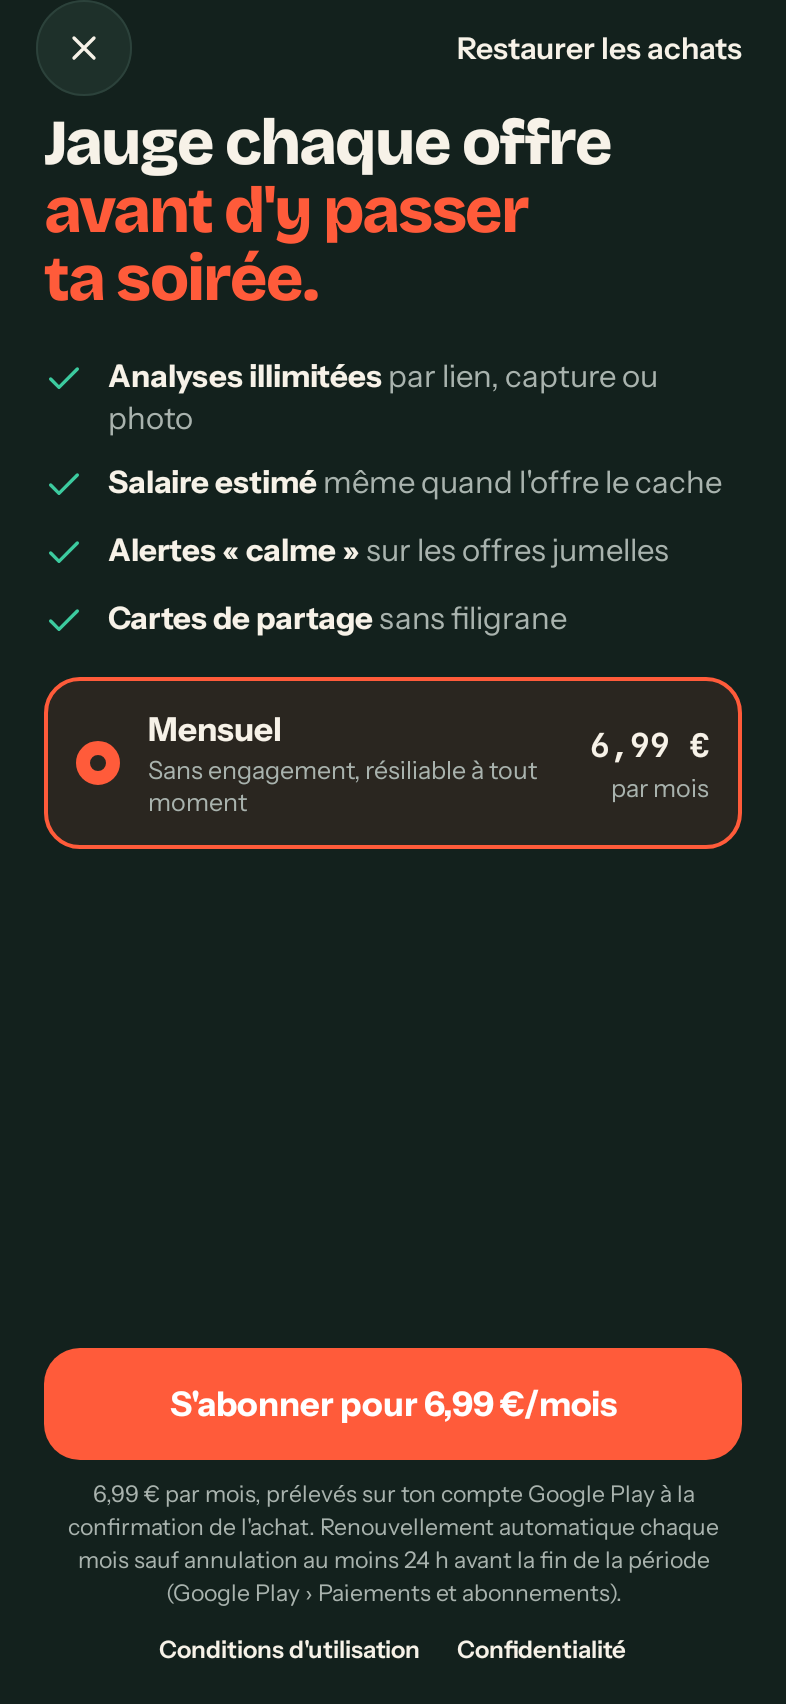
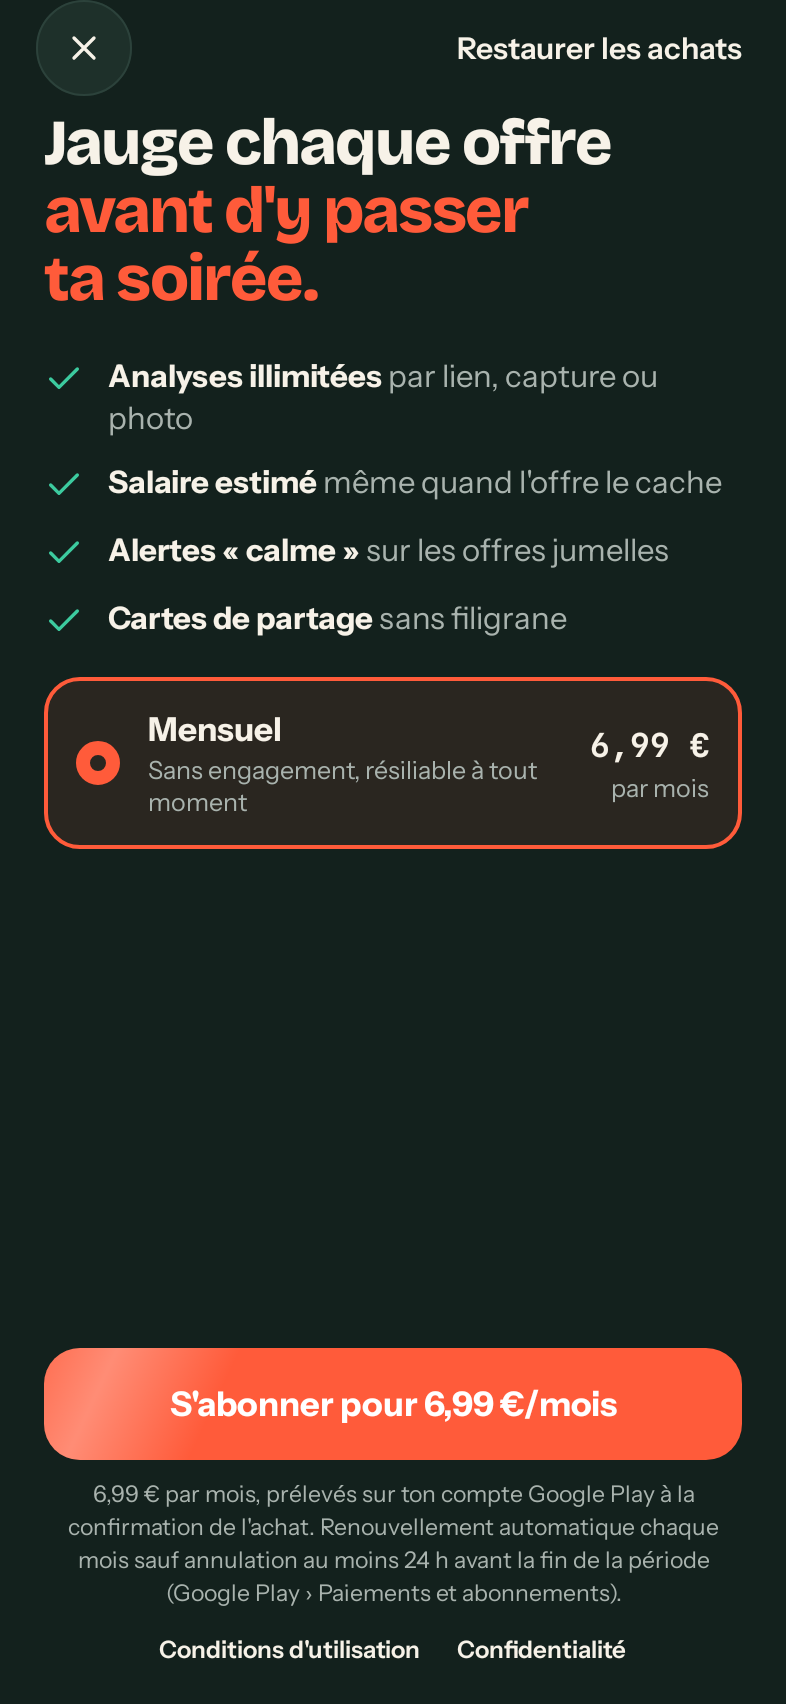
feat: real API configuration for debug and release builds
Release builds always call https://api.jauge.io/. Debug builds call
jauge.api.baseUrl when it is set (for example the Supabase function URL) and
then leave the offline mode by default; without a URL they keep the sample
data. The hidden offline switch stays in debug builds only.

Changed region(s): [[0.0305, 0.7776, 0.2443, 0.8709]]

diff --git a/core/common/src/commonMain/kotlin/io/jauge/core/common/configuration/AppEnvironment.kt b/core/common/src/commonMain/kotlin/io/jauge/core/common/configuration/AppEnvironment.kt
@@ -9,7 +9,7 @@ import io.jauge.core.common.platform.Platform
  * @property isDebugBuild true for debug builds (enables developer tools such as the hidden offline switch).
  * @property apiBaseUrl base URL of the Jauge API.
  * @property isOfflineModeByDefault true when the app starts without calling the API (sample data). Always false in
- * release builds: the offline mode is a development tool only.
+ * release builds: the offline mode is a development tool only ([selectOfflineMode]).
  * @property supabaseUrl Supabase project URL, empty when notifications are not configured.
  * @property supabasePublishableKey Supabase publishable key, empty when not configured.
  * @property revenueCatApiKey RevenueCat public SDK key used by this build, empty when purchases are disabled. Debug
@@ -47,8 +47,8 @@ data class AppEnvironment(
         fun fromBuildConfiguration(platform: Platform, isDebugBuild: Boolean): AppEnvironment = AppEnvironment(
             platform = platform,
             isDebugBuild = isDebugBuild,
-            apiBaseUrl = secureUrlOrEmpty(BuildConfiguration.API_BASE_URL, isDebugBuild).ifEmpty { DEFAULT_API_BASE_URL },
-            isOfflineModeByDefault = BuildConfiguration.OFFLINE_MODE && isDebugBuild,
+            apiBaseUrl = selectApiBaseUrl(BuildConfiguration.API_BASE_URL, isDebugBuild),
+            isOfflineModeByDefault = selectOfflineMode(BuildConfiguration.OFFLINE_MODE_SETTING, BuildConfiguration.API_BASE_URL, isDebugBuild),
             supabaseUrl = secureUrlOrEmpty(BuildConfiguration.SUPABASE_URL, isDebugBuild),
             supabasePublishableKey = BuildConfiguration.SUPABASE_PUBLISHABLE_KEY,
             revenueCatApiKey = selectRevenueCatApiKey(
@@ -60,8 +60,40 @@ data class AppEnvironment(
             ),
         )
 
-        /** API used when the configured base URL is refused. */
+        /** API of release builds, and of debug builds without a usable configured URL. */
         const val DEFAULT_API_BASE_URL: String = "https://api.jauge.io/"
+
+        /**
+         * Base URL of the API: always [DEFAULT_API_BASE_URL] in release builds; in debug builds the configured URL
+         * (for example the URL of the Supabase function, `https://<project>.supabase.co/functions/v1/api/`) when it
+         * is safe ([secureUrlOrEmpty]), otherwise [DEFAULT_API_BASE_URL].
+         *
+         * @param configuredUrl value of `jauge.api.baseUrl`, empty when not set.
+         * @param isDebugBuild true for debug builds.
+         */
+        fun selectApiBaseUrl(configuredUrl: String, isDebugBuild: Boolean): String {
+            if (!isDebugBuild) return DEFAULT_API_BASE_URL
+            val url = secureUrlOrEmpty(configuredUrl, isDebugBuild = true)
+            return if (url.isEmpty()) DEFAULT_API_BASE_URL else if (url.endsWith("/")) url else "$url/"
+        }
+
+        /**
+         * Whether the app starts in offline mode (sample data). Release builds: never. Debug builds: `true` or
+         * `false` when `jauge.api.offlineMode` says so; when it is not set, the real API is called as soon as an API
+         * URL is configured, and the offline mode is kept otherwise.
+         *
+         * @param offlineModeSetting value of `jauge.api.offlineMode` (`true`, `false` or empty).
+         * @param configuredUrl value of `jauge.api.baseUrl`, empty when not set.
+         * @param isDebugBuild true for debug builds.
+         */
+        fun selectOfflineMode(offlineModeSetting: String, configuredUrl: String, isDebugBuild: Boolean): Boolean {
+            if (!isDebugBuild) return false
+            return when (offlineModeSetting.trim().lowercase()) {
+                "true" -> true
+                "false" -> false
+                else -> secureUrlOrEmpty(configuredUrl, isDebugBuild = true).isEmpty()
+            }
+        }
 
         /**
          * Returns [url] when it may be used by this build: `https` always, `http` only in debug builds and only for

diff --git a/build-logic/convention/src/main/kotlin/io/jauge/buildlogic/GenerateBuildConfigurationTask.kt b/build-logic/convention/src/main/kotlin/io/jauge/buildlogic/GenerateBuildConfigurationTask.kt
@@ -43,10 +43,11 @@ abstract class GenerateBuildConfigurationTask : DefaultTask() {
     @TaskAction
     fun generate() {
         val resolved = values.get()
-        val apiBaseUrl = resolved[API_BASE_URL].orEmpty().ifBlank { DEFAULT_API_BASE_URL }
-        val offlineModeValue = resolved[API_OFFLINE_MODE].orEmpty().trim().lowercase()
         val isRelease = releaseBuild.getOrElse(false)
-        val offlineMode = offlineModeValue != "false" && !isRelease
+        // Release builds always call https://api.jauge.io/ (AppEnvironment) and never start offline: the configured
+        // URL and the offline setting are debug tools, left out of an iOS release binary.
+        val apiBaseUrl = if (isRelease) "" else resolved[API_BASE_URL].orEmpty().trim()
+        val offlineModeSetting = if (isRelease) "false" else resolved[API_OFFLINE_MODE].orEmpty().trim().lowercase()
         val supabaseUrl = resolved[SUPABASE_URL].orEmpty().trim()
         val supabaseKey = resolved[SUPABASE_PUBLISHABLE_KEY].orEmpty().trim()
         val revenueCatGoogle = resolved[REVENUECAT_GOOGLE_API_KEY].orEmpty().trim()
@@ -76,11 +77,17 @@ abstract class GenerateBuildConfigurationTask : DefaultTask() {
             | * (or from environment variables). It never contains a secret key.
             | */
             |public object BuildConfiguration {
-            |    /** Base URL of the Jauge API, always ending with a slash. */
-            |    public const val API_BASE_URL: String = "${apiBaseUrl.ensureTrailingSlash().escape()}"
+            |    /**
+            |     * Base URL of the Jauge API configured for debug builds (`jauge.api.baseUrl`), ending with a slash, empty
+            |     * when none is configured. Release builds always use `https://api.jauge.io/`.
+            |     */
+            |    public const val API_BASE_URL: String = "${apiBaseUrl.takeIf { it.isNotEmpty() }?.ensureTrailingSlash().orEmpty().escape()}"
             |
-            |    /** True when the app must use the built in offline data instead of the real API. */
-            |    public const val OFFLINE_MODE: Boolean = $offlineMode
+            |    /**
+            |     * Offline mode setting (`jauge.api.offlineMode`): `true`, `false`, or empty when not set (then the app calls
+            |     * the API when [API_BASE_URL] is configured, see `AppEnvironment.selectOfflineMode`).
+            |     */
+            |    public const val OFFLINE_MODE_SETTING: String = "${offlineModeSetting.escape()}"
             |
             |    /** URL of the Supabase project, empty when not configured. */
             |    public const val SUPABASE_URL: String = "${supabaseUrl.escape()}"
@@ -127,7 +134,10 @@ abstract class GenerateBuildConfigurationTask : DefaultTask() {
         /** Base URL of the API. */
         const val API_BASE_URL = "jauge.api.baseUrl"
 
-        /** `false` to call the real API, anything else (or nothing) keeps the offline mode. */
+        /**
+         * `true` keeps the offline mode, `false` calls the API; when not set, the API is called as soon as
+         * [API_BASE_URL] is configured (debug builds only, release builds always call the API).
+         */
         const val API_OFFLINE_MODE = "jauge.api.offlineMode"
 
         /** Supabase project URL. */

diff --git a/core/common/src/commonTest/kotlin/io/jauge/core/common/configuration/AppEnvironmentSecurityTest.kt b/core/common/src/commonTest/kotlin/io/jauge/core/common/configuration/AppEnvironmentSecurityTest.kt
@@ -41,4 +41,31 @@ class AppEnvironmentSecurityTest {
         assertTrue(debug.canUseSimulatedServices)
         assertTrue(ApiModeController(debug).canSwitchAtRuntime)
     }
+
+    @Test
+    fun releaseBuildsAlwaysCallApiJaugeIo() {
+        assertEquals("https://api.jauge.io/", AppEnvironment.selectApiBaseUrl("https://abc.supabase.co/functions/v1/api/", isDebugBuild = false))
+        assertEquals("https://api.jauge.io/", AppEnvironment.selectApiBaseUrl("", isDebugBuild = false))
+        assertFalse(AppEnvironment.selectOfflineMode("true", "", isDebugBuild = false))
+    }
+
+    @Test
+    fun debugBuildsMayCallTheSupabaseFunction() {
+        assertEquals(
+            "https://abc.supabase.co/functions/v1/api/",
+            AppEnvironment.selectApiBaseUrl("https://abc.supabase.co/functions/v1/api", isDebugBuild = true),
+        )
+        assertEquals("https://api.jauge.io/", AppEnvironment.selectApiBaseUrl("", isDebugBuild = true))
+        assertEquals("https://api.jauge.io/", AppEnvironment.selectApiBaseUrl("http://evil.example/", isDebugBuild = true))
+    }
+
+    @Test
+    fun aConfiguredApiTurnsTheOfflineModeOffUnlessAskedOtherwise() {
+        val supabase = "https://abc.supabase.co/functions/v1/api/"
+        assertFalse(AppEnvironment.selectOfflineMode("", supabase, isDebugBuild = true))
+        assertTrue(AppEnvironment.selectOfflineMode("true", supabase, isDebugBuild = true))
+        assertTrue(AppEnvironment.selectOfflineMode("", "", isDebugBuild = true), "no API configured: sample data")
+        assertFalse(AppEnvironment.selectOfflineMode("false", "", isDebugBuild = true))
+        assertTrue(AppEnvironment.selectOfflineMode("", "http://evil.example/", isDebugBuild = true), "refused URL: sample data")
+    }
 }

diff --git a/docs/api.md b/docs/api.md
@@ -2,9 +2,11 @@
 
 This document and `docs/openapi.yaml` (OpenAPI 3.1, the reference) describe the API. It is implemented by the Edge
 Function `supabase/functions/api` (architecture, queue, costs and deployment in `docs/backend/`); it is not deployed
-yet, so the app still runs in **offline mode** by default (see the end of this document).
+yet. Release builds call `https://api.jauge.io/`; debug builds call `jauge.api.baseUrl` when it is set, and the
+**offline mode** (see the end of this document) otherwise.
 
-- Base URL: `https://api.jauge.io/` (configurable with `jauge.api.baseUrl`).
+- Base URL: `https://api.jauge.io/` (release builds). Debug builds may use another URL with `jauge.api.baseUrl`, for
+  example the Supabase function `https://<project>.supabase.co/functions/v1/api/` (same routes).
 - Paths in English, versioned under `/v1`. JSON bodies in UTF-8, except image uploads (multipart).
 - Dates: ISO 8601 (`2026-10-23`, `2026-10-23T08:00:00Z`). Months: `2026-10`.
 - Salaries: annual gross, in thousands of euros (`{"minimum": 36, "maximum": 41}` means 36 to 41 k€).
@@ -153,7 +155,7 @@ progresses 20, 40, 62, 85 % then completes. New analyses, alerts and shares are 
 city of the area, twin offers keep the radius and move to the city of the area outside Rhône, new analyses use the
 radius of the area.
 
-It is on when `jauge.api.offlineMode` is not `false` (the default while the API does not exist). In debug builds a
-long press on the "Profil" tab switches between offline and real API at runtime. `OfflineScenarioController`
+Debug builds only. It is on when `jauge.api.offlineMode` is `true`, or when it is empty and no `jauge.api.baseUrl`
+is set; release builds never use it. In debug builds a long press on the "Profil" tab switches between offline and real API at runtime. `OfflineScenarioController`
 simulates failures: `NO_CONNECTION`, `TIMEOUT`, `SERVER_UNAVAILABLE`, `SESSION_EXPIRED`, `QUOTA_REACHED`,
 `UNREADABLE_OFFER`, `INVALID_RESPONSE` and `EMPTY` (empty lists).

diff --git a/docs/ARCHITECTURE.md b/docs/ARCHITECTURE.md
@@ -209,8 +209,8 @@ generated into `io.jauge.core.common.configuration.BuildConfiguration`. Environm
 
 | Property | Environment variable | Use |
 |---|---|---|
-| `jauge.api.baseUrl` | `JAUGE_API_BASE_URL` | API base URL (default `https://api.jauge.io/`) |
-| `jauge.api.offlineMode` | `JAUGE_API_OFFLINE_MODE` | `false` calls the real API, anything else keeps the offline mode |
+| `jauge.api.baseUrl` | `JAUGE_API_BASE_URL` | API base URL of **debug** builds (for example `https://<project>.supabase.co/functions/v1/api/`); release builds always use `https://api.jauge.io/` |
+| `jauge.api.offlineMode` | `JAUGE_API_OFFLINE_MODE` | Debug builds: `true` forces the offline mode, `false` the API; empty: the API as soon as `jauge.api.baseUrl` is set, the offline mode otherwise |
 | `supabase.url` | `JAUGE_SUPABASE_URL` | Supabase project URL |
 | `supabase.publishableKey` | `JAUGE_SUPABASE_PUBLISHABLE_KEY` | Supabase publishable key only |
 | `revenuecat.testStoreApiKey` | `JAUGE_REVENUECAT_TEST_STORE_API_KEY` | RevenueCat Test Store key, used by debug builds |
@@ -231,7 +231,8 @@ offline mode and purchases disabled (`UnavailableBillingClient`), without crash.
 `OfflineJaugeApi` (core:data), which serves data from the mockups with a simulated latency. An indicator
 ("Données d'exemple", debug builds only) is shown at the top of the app while it is on.
 
-- Build setting: `jauge.api.offlineMode` (on by default while the API does not exist). **Debug builds only**: release
+- Build setting: `jauge.api.offlineMode`, see the table above (`AppEnvironment.selectOfflineMode`): a configured API
+  URL turns the offline mode off by default. **Debug builds only**: release
   builds always call the real API, never sign in with `SimulatedAuthenticationRepository` (they use
   `UnavailableAuthenticationRepository` when Supabase is not configured) and an iOS Release framework never embeds the
   Test Store key (see `docs/audit/securite.md`).

diff --git a/README.md b/README.md
@@ -17,7 +17,9 @@ how many people are applying, what the job really pays, which skills matter, how
 
 1. Install JDK 17 and the Android SDK (platform 36).
 2. Copy `local.properties.example` to `local.properties` and fill in the values you have. Missing values are fine:
-   the app then starts in offline mode (realistic sample data, no network) and purchases are disabled.
+   debug builds then start in offline mode (realistic sample data, no network) and purchases are disabled. Set
+   `jauge.api.baseUrl` (for example the Supabase function URL) to call the real API from a debug build; release
+   builds always call `https://api.jauge.io/`.
 3. Build the Android app: `./gradlew :androidApp:assembleDebug`
 4. Run the unit tests: `./gradlew testAndroidHostTest`
 5. iOS: open `iosApp/iosApp.xcodeproj` in Xcode (copy `iosApp/Configuration/Config.xcconfig.example` to
